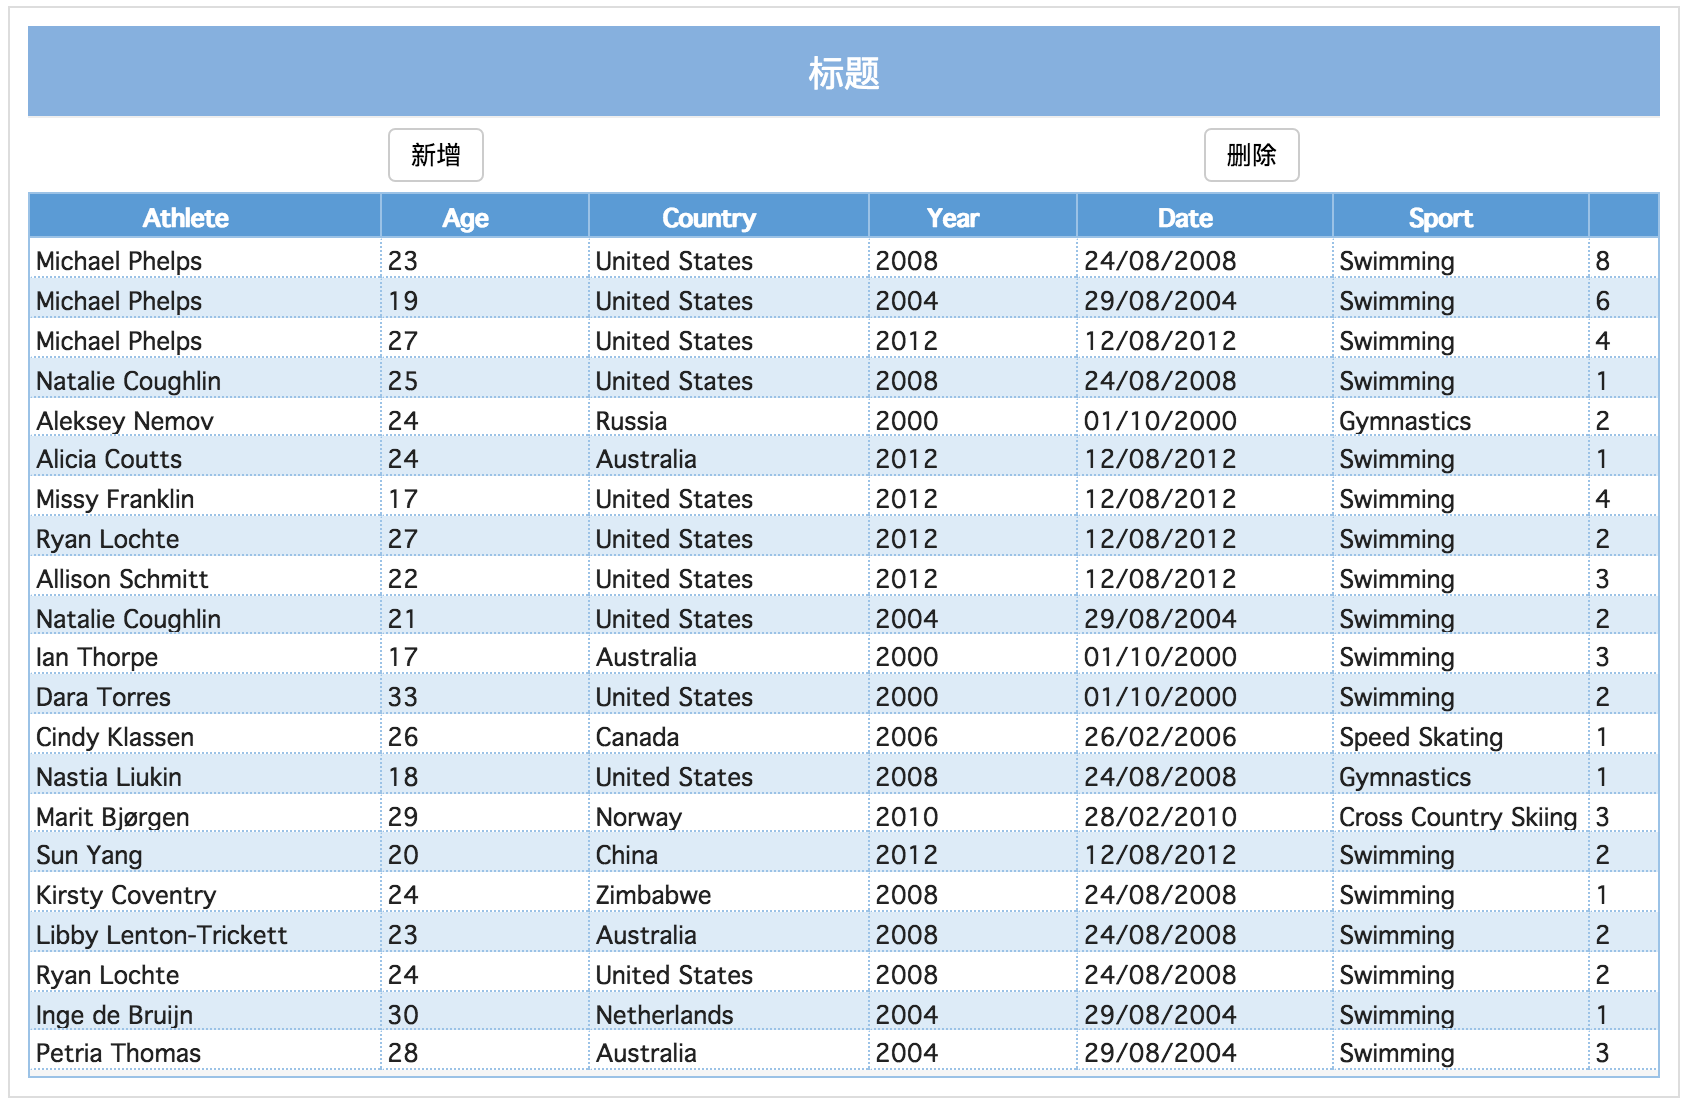
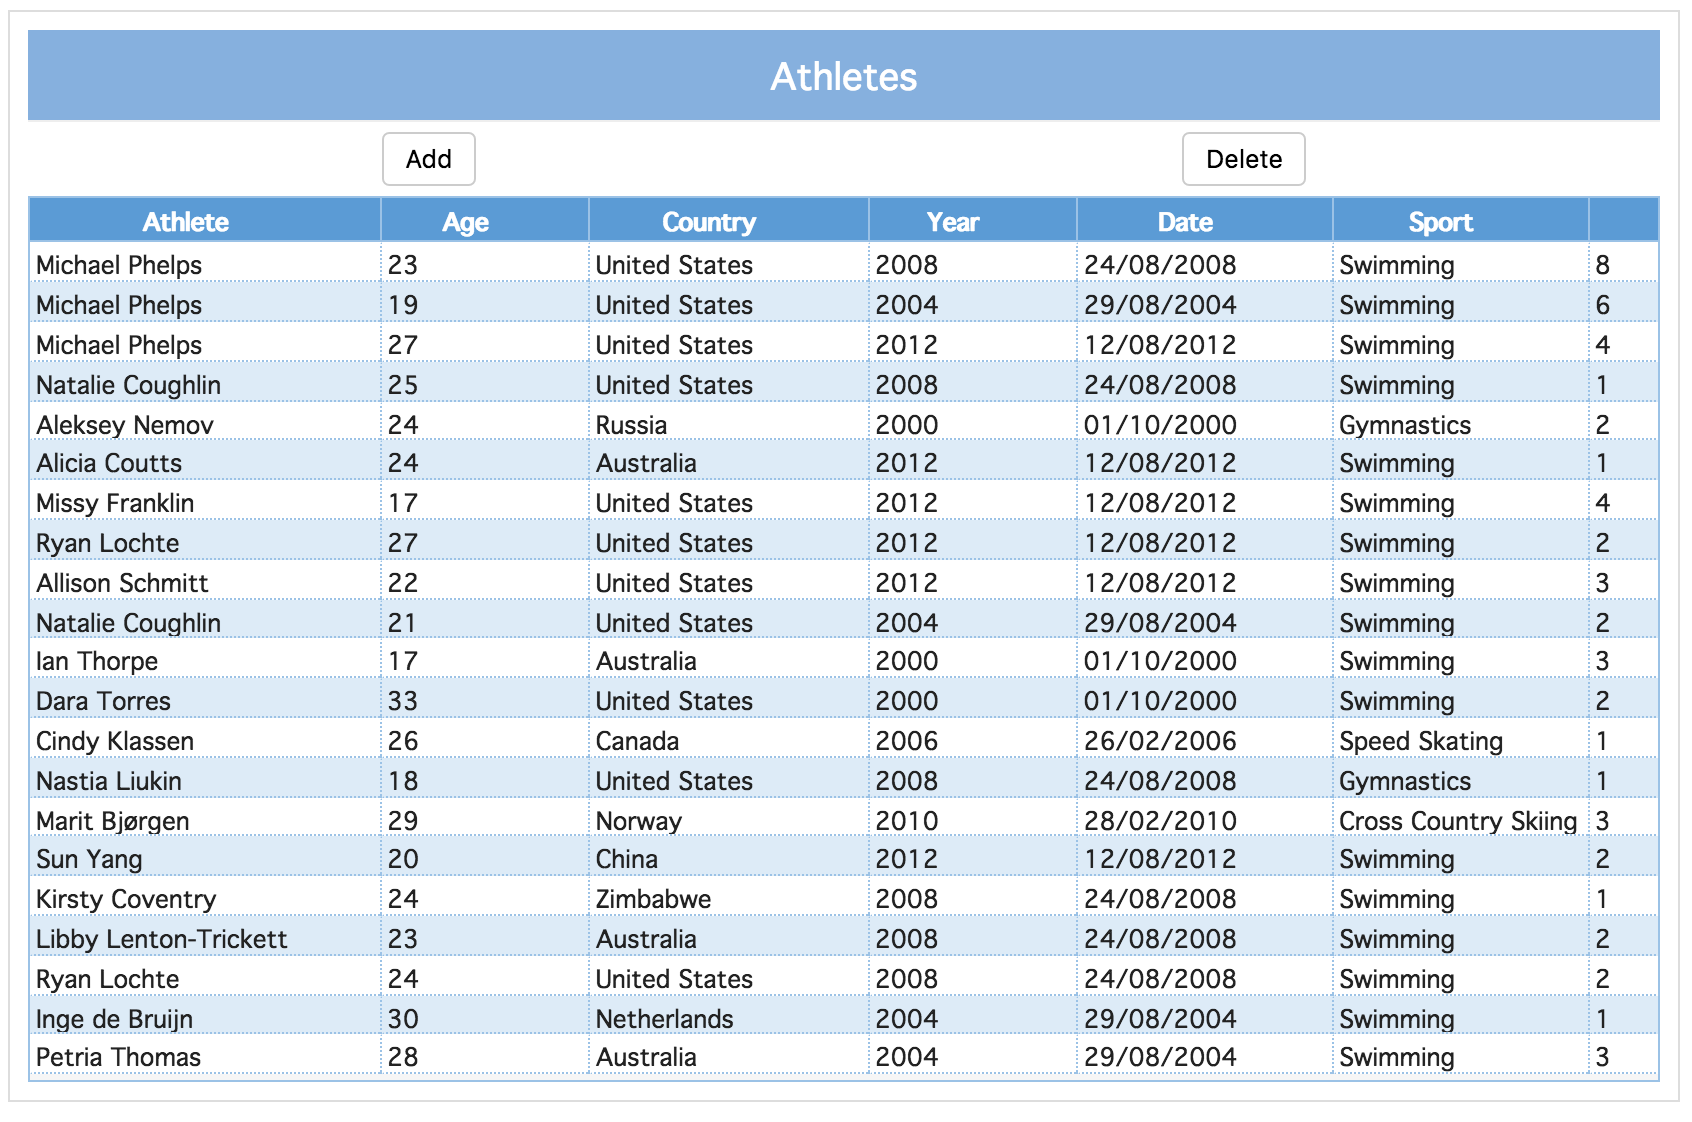
made title a prop and change demo image

diff --git a/src/AgGridWrapper.jsx b/src/AgGridWrapper.jsx
@@ -73,10 +73,10 @@ class AgGridWrapper extends Component {
         style={configurableStyles}
       >
         <div className={styles.content}>
-          <div className={styles.title}>标题</div>
+          <div className={styles.title}>{title}</div>
           <div className={styles.buttons}>
-            <MDButton onClick={this.onRowAdded}>新增</MDButton>
-            <MDButton onClick={this.onRowDeleted}>删除</MDButton>
+            <MDButton onClick={this.onRowAdded}>Add</MDButton>
+            <MDButton onClick={this.onRowDeleted}>Delete</MDButton>
           </div>
           <AgGridReact
             onGridReady={this.onGridReady}

diff --git a/App.js b/App.js
@@ -5,6 +5,7 @@ import { columnDefs, rowData } from './src/testdata';
 const App = () => (
   <div>
     <AgGridWrapper
+      title="Athletes"
       columnDefs={columnDefs}
       data={rowData}
     />
